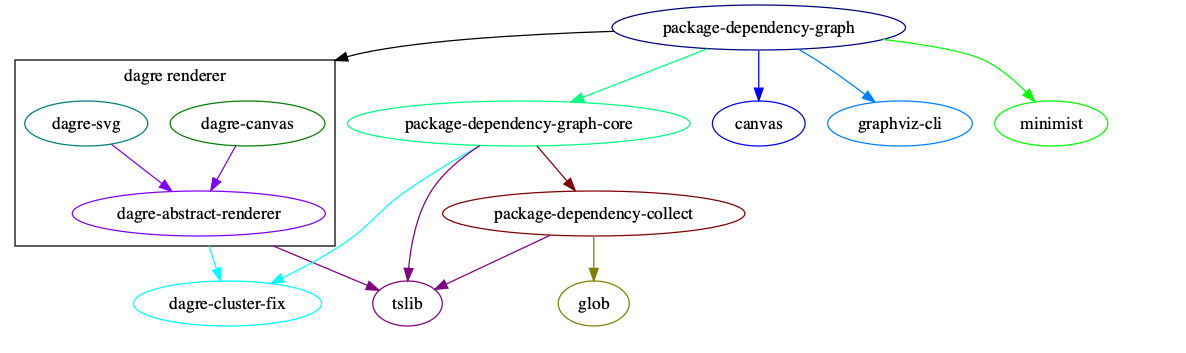
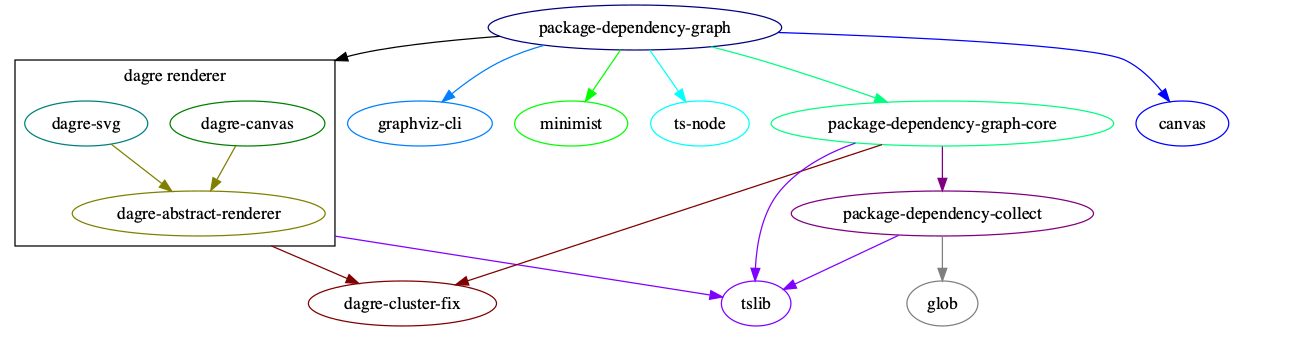
fix: fix wrong dot file generation, add ts-node as dependency

diff --git a/packages/core/src/dot.ts b/packages/core/src/dot.ts
@@ -89,7 +89,7 @@ function nestedGroupToSubgraph(nestedGroup: NestedGroup, depth: number): string 
     }
   }
   return `  ${indent}subgraph cluster_${toName(nestedGroup.name)} {
-    ${indent}${nodes.map((n) => toName(n)).join(' ')};
+    ${indent}${nodes.map((n) => toName(n)).join(' ')}${nodes.length > 0 ? ';' : ''}
 ${children.map((c) => nestedGroupToSubgraph(c, depth + 1)).join('\n')}
     ${indent}label = "${nestedGroup.name}";
     ${indent}color = "${nestedGroup.color}";
